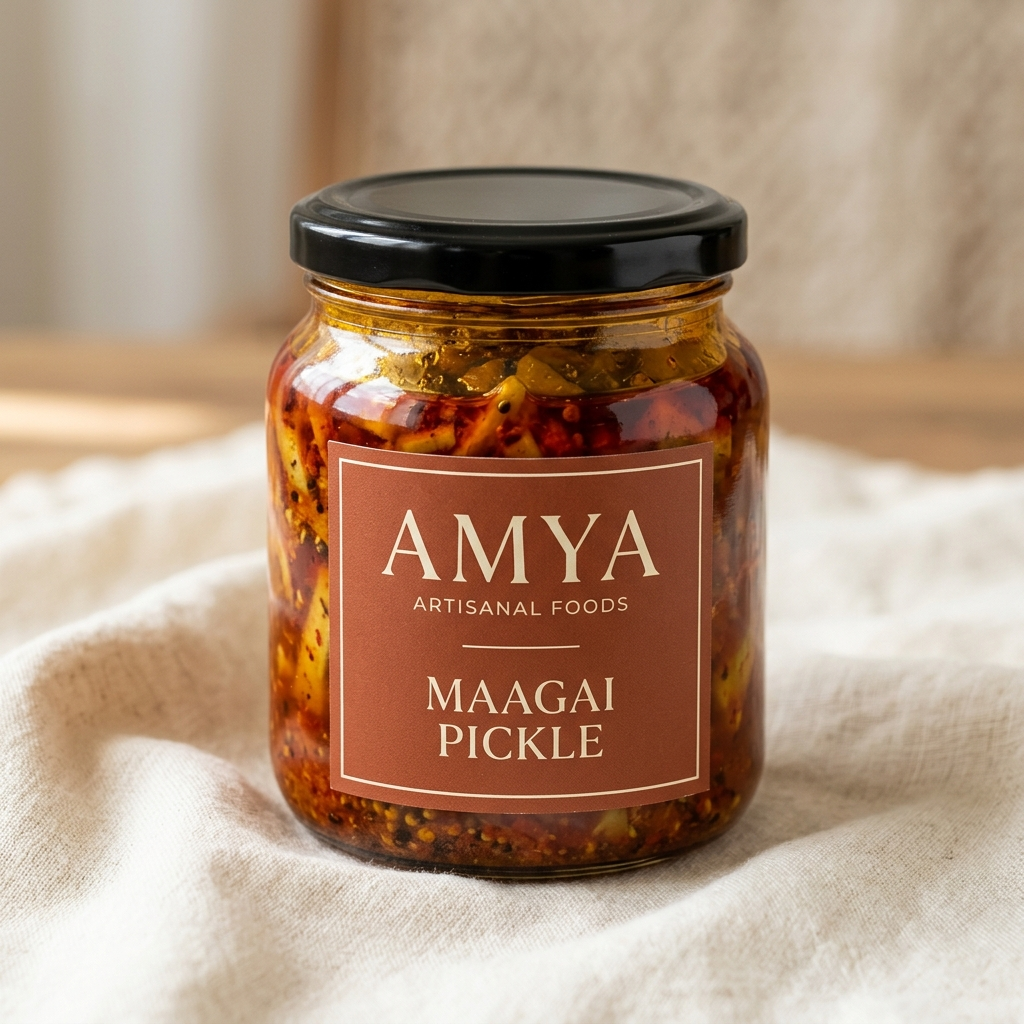
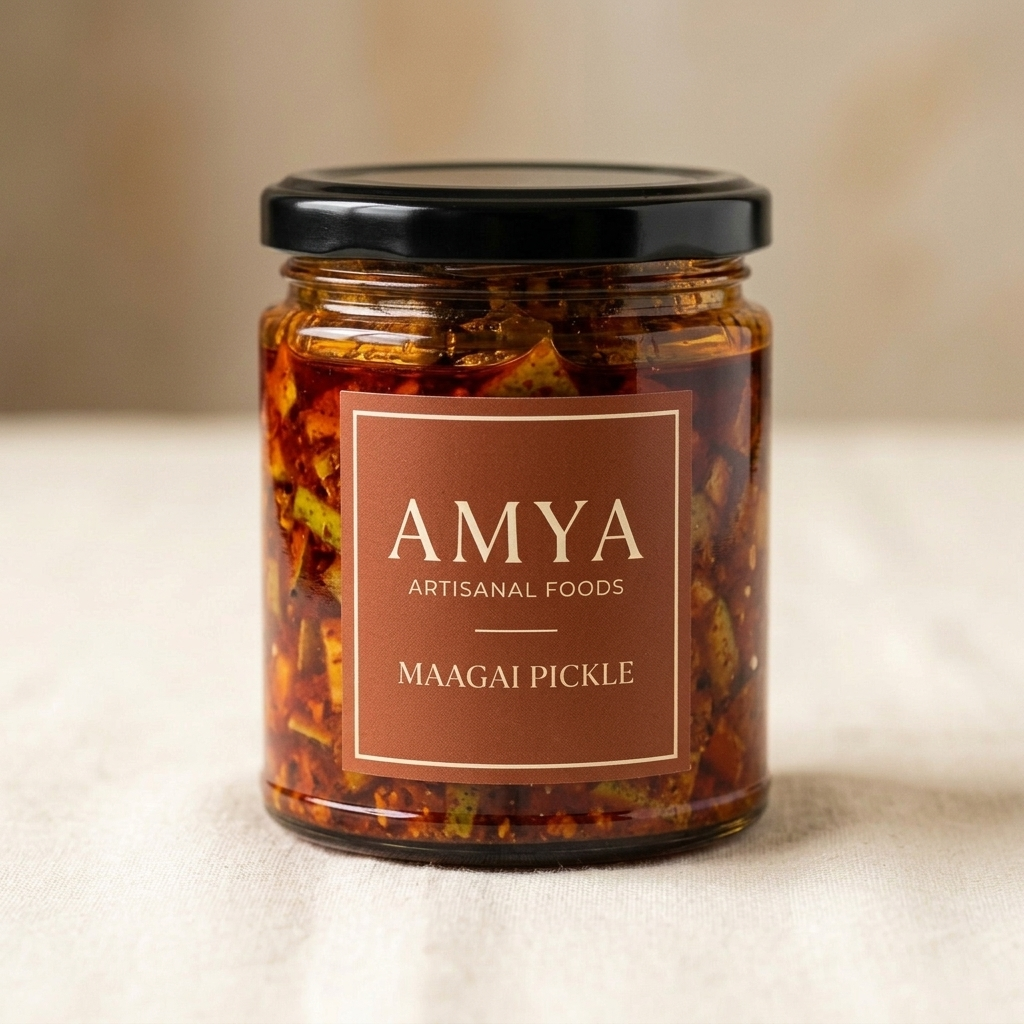
## Pickle Jars Standardised — Done (preview only, NOT published) All 6 pickle images now use ONE consistent amber jar, verified visible in the preview on desktop and mobile.
**What changed (images only):**
- Built a single master amber jar and reused it for every pickle, so all six now share: the same **rich dark-amber glass** (clearly amber, pickle still visible — not clear, not blacked-out), the same **jar silhouette/height/width/shoulder/proportions**, the same **glossy black screw cap**, the same terracotta **AMYA label** (AMYA / ARTISANAL FOODS / divider / pickle name, no invented claims), the same ivory-linen background, camera angle and lighting.
- Only the contents and the name differ per product: Chicken (boneless chicken), Mutton, Prawn (curled prawns), Allam Sweet (ginger + jaggery), Avakai (mango + mustard), Maagai (cut mango).

**Preserved exactly (nothing else touched):**
- Prices, pack sizes (250g/500g/1kg), descriptions and cart all unchanged.
- **Avakai & Maagai remain OUT OF STOCK** (shown as "Currently Unavailable", not orderable); Chicken/Mutton/Prawn/Allam remain available with Add to Cart.
- Oil bottles and spice/podi packaging were NOT modified. AMYA logo unchanged.

Verified: pickles page on desktop + mobile (390px, 2-column grid) — uniform jar size/shape/cap, correct gating (4 Add-to-Cart, 2 Currently Unavailable), correct From-prices (₹400 / ₹500 / ₹600 / ₹200). Preview: https://amya-artisanal.preview.emergentagent.com/shop/pickles — **nothing has been published/deployed**.
[…]

diff --git a/backend/server.py b/backend/server.py
@@ -861,7 +861,7 @@ async def seed():
                 {"label": "500 g", "price": prices[1]},
                 {"label": "1 kg", "price": prices[2]},
             ]
-            p["images"] = [f"/products/{p['slug']}.jpg?v=3"]
+            p["images"] = [f"/products/{p['slug']}.jpg?v=4"]
         images = p.pop("images", [])
         # `availability` is admin-managed inventory: set it only on first insert so
         # changes made in the admin panel (e.g. marking stock back in) persist across

diff --git a/memory/PRD.md b/memory/PRD.md
@@ -18,7 +18,13 @@ Premium pre-launch e-commerce website for AMYA Artisanal Foods (domain amayafood
 - No fabricated licences, certifications, GST, lab reports, reviews, or business history.
 - Two-colour brand identity; premium, mobile-first, responsive.
 
-## Oil visuals + Sunflower removal (2026-10-13c) — preview only, NOT yet published
+## Pickle jars standardised (2026-10-13d) — preview only, NOT yet published
+- Regenerated all 6 pickle images to ONE consistent amber jar using a master-jar + edit approach: a single straight-sided rich dark-amber glass jar, same glossy black screw cap, same terracotta AMYA square label (AMYA / ARTISANAL FOODS / divider / pickle name, no invented claims), same ivory-linen background, same straight-on angle and lighting. Only the contents + product-name differ per product.
+- Contents: Chicken (boneless chicken), Mutton, Prawn (curled prawns), Allam Sweet (ginger+jaggery), Avakai (mango cubes+mustard), Maagai (cut mango). Glass is clearly amber yet pickle remains visible.
+- Cache bumped to ?v=4 (seed loop). Availability/prices/descriptions/cart unchanged: Chicken/Mutton/Prawn/Allam available; Avakai/Maagai OUT OF STOCK (not orderable).
+- Verified desktop + mobile (390px, 2-col grid): uniform jar size/shape/cap, correct gating (4 Add-to-Cart, 2 Currently Unavailable), correct From-prices (₹400/₹500/₹600/₹200). Oils and spice/podi packaging untouched.
+
+
 - **Oil bottles regenerated** from the user's actual bottle reference photo (IMG_9509): tall SQUARE amber-glass bottles with flat sides, defined corners, short neck and ribbed black screw cap, warm golden highlights — Groundnut, Sesame, Coconut. Clean warm-neutral studio backgrounds, AMYA terracotta label with correct oil name. Cache bumped to ?v=3.
 - **Sunflower Oil removed completely**: product block deleted from INITIAL_PRODUCTS, removed from FORCE_IMAGE_SLUGS, image file deleted; delete_many drops it from DB (total products 20 -> 19). GET /api/products/sunflower-oil = 404; no references anywhere in code/data; no broken links.
 - Oil section stays last; other oils' prices/capacities/availability unchanged (all coming-soon, not orderable). No checkout/payment changes.
